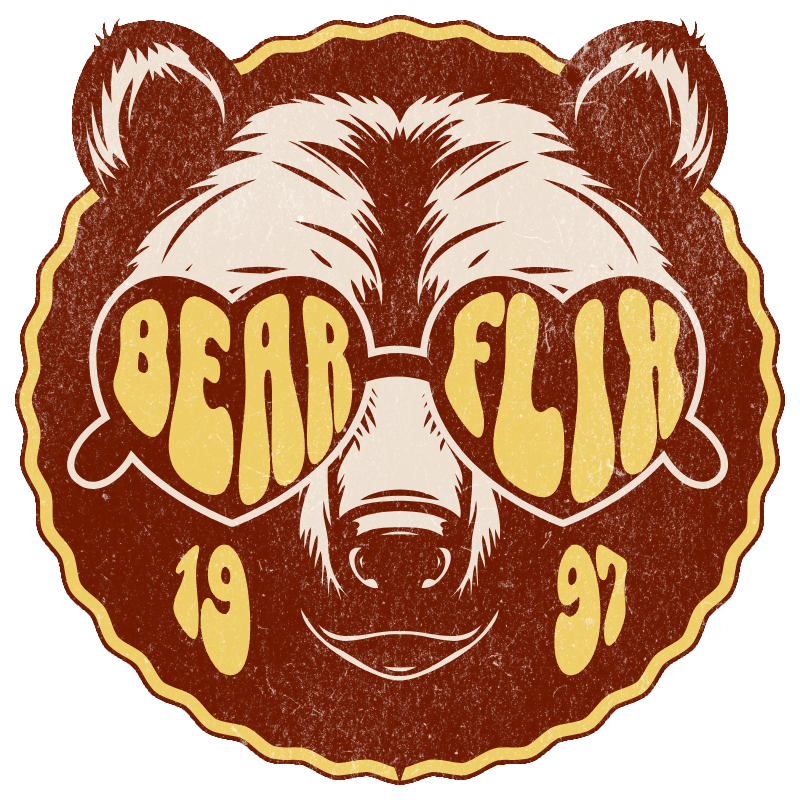
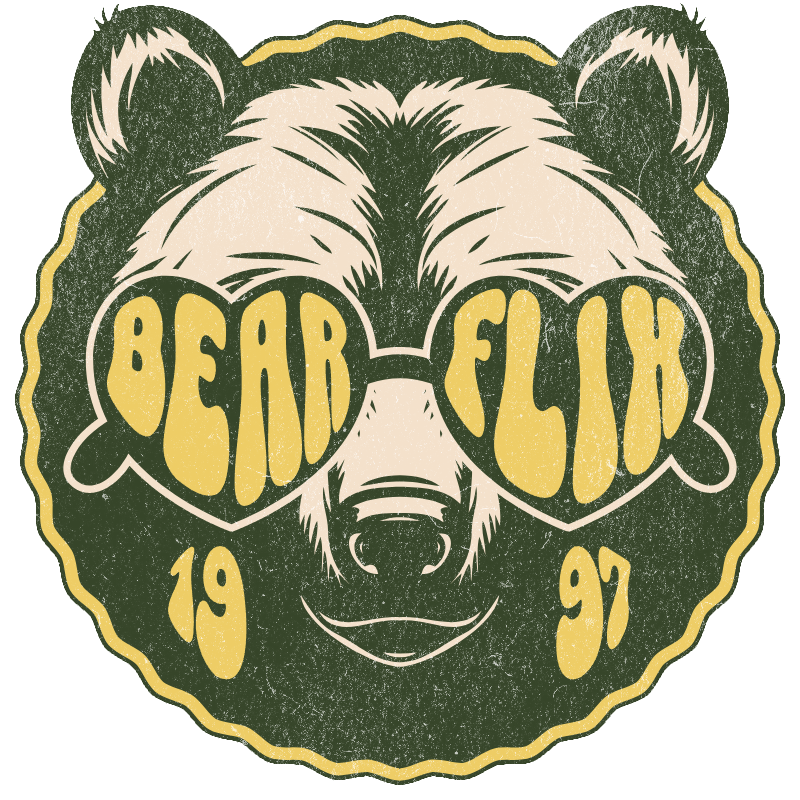
changing the style from site to retro looking

diff --git a/src/app/core/components/header/header.component.html b/src/app/core/components/header/header.component.html
@@ -1,18 +1,25 @@
-<header class="h-[68px] z-10 bg-gray-900 sticky top-0 flex items-center justify-between px-10">
-    <div class="flex gap-5">
-        <img width="110" src="assets/Bearflix.png" alt="Bearflix logo" />
-        <ul *ngFor="let item of navList" class="content-center">
-            <li class="text-neutral-200 cursor-pointer text-sm font-extralight hover:text-gray-400 transition-[1s]">
-                {{item}}</li>
-        </ul>
-    </div>
-
-    <div class="text-white flex items-center gap-4">
-        <div class="flex items-center gap-2">
-            <a href="/"><span>Welcome <strong>{{name}}</strong></span></a>
-            <img class="rounded-full" [src]="userImage" width="42" />
+<header
+    class="fixed w-full z-10 h-[110px] bg-tertiary-color  text-primary-color top-0 py-1.5 bg-[url('/assets/GrainTexture_15.jpg')] bg-blend-multiply">
+    <div
+        class="  m-b-5 h-full  flex items-center justify-between px-10  border-secondary-color border-t border-b border-dashed">
+        <div class="flex gap-5">
+            <div class="flex gap-3 items-center">
+                <img width="70" src="assets/Bearflix.png" alt="Bearflix logo" />
+                <h2>Bearflix</h2>
+            </div>
+            <ul *ngFor="let item of navList" class="content-center">
+                <li class="cursor-pointer text-sm font-extralight hover:text-gray-400 transition-[1s]">
+                    {{item}}</li>
+            </ul>
         </div>
-        &nbsp; | &nbsp;
-        <a href="/">Signout</a>
+
+        <div class=" flex items-center gap-4">
+            <div class="flex items-center gap-2">
+                <a href="/"><span>Welcome <strong>{{name}}</strong></span></a>
+                <img class="rounded-full" [src]="userImage" width="42" />
+            </div>
+            &nbsp; | &nbsp;
+            <a href="/">Signout</a>
+        </div>
     </div>
 </header>

diff --git a/src/app/pages/browse/browse.component.html b/src/app/pages/browse/browse.component.html
@@ -1,10 +1,12 @@
 <!-- component -->
 <app-header [userImage]="profileImage" [name]="name" />
+<div class="h-[110px]"></div>
 <app-banner [title]="(bannerDetail$ | async)?.original_title" [overview]="(bannerDetail$ | async)?.overview"
     [key]="(bannerVideo$ | async)?.results[0].key" />
-<app-movie-carousel [title]="'Popular on Netflix'" [videoContents]="movies" />
+<app-movie-carousel [title]="'Popular on Bearflix'" [videoContents]="movies" />
 <app-movie-carousel [title]="'Trending TV shows'" [videoContents]="tvShows" />
 <app-movie-carousel [title]="'Now Playing Movies'" [videoContents]="nowPlayingMovies" />
 <app-movie-carousel [title]="'Popular Movies'" [videoContents]="popularMovies" />
 <!-- <app-movie-carousel [title]="'Top Rated Movies'" [videoContents]="topRatedMovies" />-->
 <app-movie-carousel [title]="'Upcoming Movies'" [videoContents]="upcomingMovies" />
+<app-footer />

diff --git a/src/app/pages/browse/browse.component.ts b/src/app/pages/browse/browse.component.ts
@@ -7,11 +7,12 @@ import { BannerComponent } from '@core/components/banner/banner.component';
 import { MovieService } from '@shared/services/movie.service';
 import { IVideoContent } from '@shared/models/video-content.interface';
 import { forkJoin, map, Observable } from 'rxjs';
+import { FooterComponent } from "../../browse/footer/footer.component";
 
 @Component({
   selector: 'app-browse',
   standalone: true,
-  imports: [CommonModule, HeaderComponent, BannerComponent, MovieCarouselComponent],
+  imports: [CommonModule, HeaderComponent, BannerComponent, MovieCarouselComponent, FooterComponent],
   templateUrl: './browse.component.html',
   styleUrl: './browse.component.css'
 })

diff --git a/src/app/browse/footer/footer.component.spec.ts b/src/app/browse/footer/footer.component.spec.ts
@@ -1,0 +1,23 @@
+import { ComponentFixture, TestBed } from '@angular/core/testing';
+
+import { FooterComponent } from './footer.component';
+
+describe('FooterComponent', () => {
+  let component: FooterComponent;
+  let fixture: ComponentFixture<FooterComponent>;
+
+  beforeEach(async () => {
+    await TestBed.configureTestingModule({
+      imports: [FooterComponent]
+    })
+    .compileComponents();
+
+    fixture = TestBed.createComponent(FooterComponent);
+    component = fixture.componentInstance;
+    fixture.detectChanges();
+  });
+
+  it('should create', () => {
+    expect(component).toBeTruthy();
+  });
+});

diff --git a/src/app/core/components/footer/footer/footer.component.spec.ts b/src/app/core/components/footer/footer/footer.component.spec.ts
@@ -1,0 +1,23 @@
+import { ComponentFixture, TestBed } from '@angular/core/testing';
+
+import { FooterComponent } from './footer.component';
+
+describe('FooterComponent', () => {
+  let component: FooterComponent;
+  let fixture: ComponentFixture<FooterComponent>;
+
+  beforeEach(async () => {
+    await TestBed.configureTestingModule({
+      imports: [FooterComponent]
+    })
+    .compileComponents();
+
+    fixture = TestBed.createComponent(FooterComponent);
+    component = fixture.componentInstance;
+    fixture.detectChanges();
+  });
+
+  it('should create', () => {
+    expect(component).toBeTruthy();
+  });
+});

diff --git a/src/app/core/components/banner/banner.component.html b/src/app/core/components/banner/banner.component.html
@@ -1,5 +1,5 @@
-<iframe class="w-full h-full absolute " [src]="videoUrl" framborder="0"></iframe>
-<div class="h-screen bg-white">
+<iframe class="w-full h-full absolute" [src]="videoUrl" framborder="0"></iframe>
+<div class="h-screen">
     <div class="pt-[20%] px-24 absolute h-full text-white bg-gradient-to-r from-black">
         <h1 class="text-6xl font-bold">{{title}}</h1>
         <p class="inline-block py-6 text-xl w-1/4 flex-wrap"> {{overview}}</p>

diff --git a/src/app/shared/components/movie-carousel/movie-carousel.component.html b/src/app/shared/components/movie-carousel/movie-carousel.component.html
@@ -1,5 +1,5 @@
 <div class="container px-20 mt-14 mb-20">
-    <p class="font-semibold text-2xl my-3 ml-3">{{title}}</p>
+    <p class="text-tertiary-color  text-2xl my-3 ml-3 t font-extrabold">{{title}}</p>
     <div #swiperContainer class="swiper-container">
         <div class="swiper-wrapper">
             <ng-container *ngFor="let movie of videoContents">

diff --git a/src/app/app.component.html b/src/app/app.component.html
@@ -1,3 +1,5 @@
-<main class="h-full text-neutral-200 bg-[#141414] overflow-x-hidden">
-    <router-outlet />
+<main class=" w-full h-full bg-[url('/assets/GrainTexture.jpg')]">
+    <div class="bg-primary-color bg-opacity-85 bg-blend-multiply h-full w-full">
+        <router-outlet />
+    </div>
 </main>

diff --git a/tailwind.config.js b/tailwind.config.js
@@ -4,7 +4,13 @@ module.exports = {
     "./src/**/*.{html,ts}",
   ],
   theme: {
-    extend: {},
+    extend: {
+      colors: {
+        'primary-color': '#F4E1CB',
+        'secondary-color': '#EECD65',
+        'tertiary-color': '#364529',
+      },
+    },
   },
   plugins: [],
 }

diff --git a/src/app/browse/footer/footer.component.ts b/src/app/browse/footer/footer.component.ts
@@ -1,0 +1,12 @@
+import { Component } from '@angular/core';
+
+@Component({
+  selector: 'app-footer',
+  standalone: true,
+  imports: [],
+  templateUrl: './footer.component.html',
+  styleUrl: './footer.component.css'
+})
+export class FooterComponent {
+
+}

diff --git a/src/app/core/components/footer/footer/footer.component.ts b/src/app/core/components/footer/footer/footer.component.ts
@@ -1,0 +1,12 @@
+import { Component } from '@angular/core';
+
+@Component({
+  selector: 'app-footer',
+  standalone: true,
+  imports: [],
+  templateUrl: './footer.component.html',
+  styleUrl: './footer.component.css'
+})
+export class FooterComponent {
+
+}

diff --git a/src/app/core/components/footer/footer/footer.component.html b/src/app/core/components/footer/footer/footer.component.html
@@ -1,0 +1,3 @@
+<div class="h-40">
+    <p>footer works!</p>
+</div>
